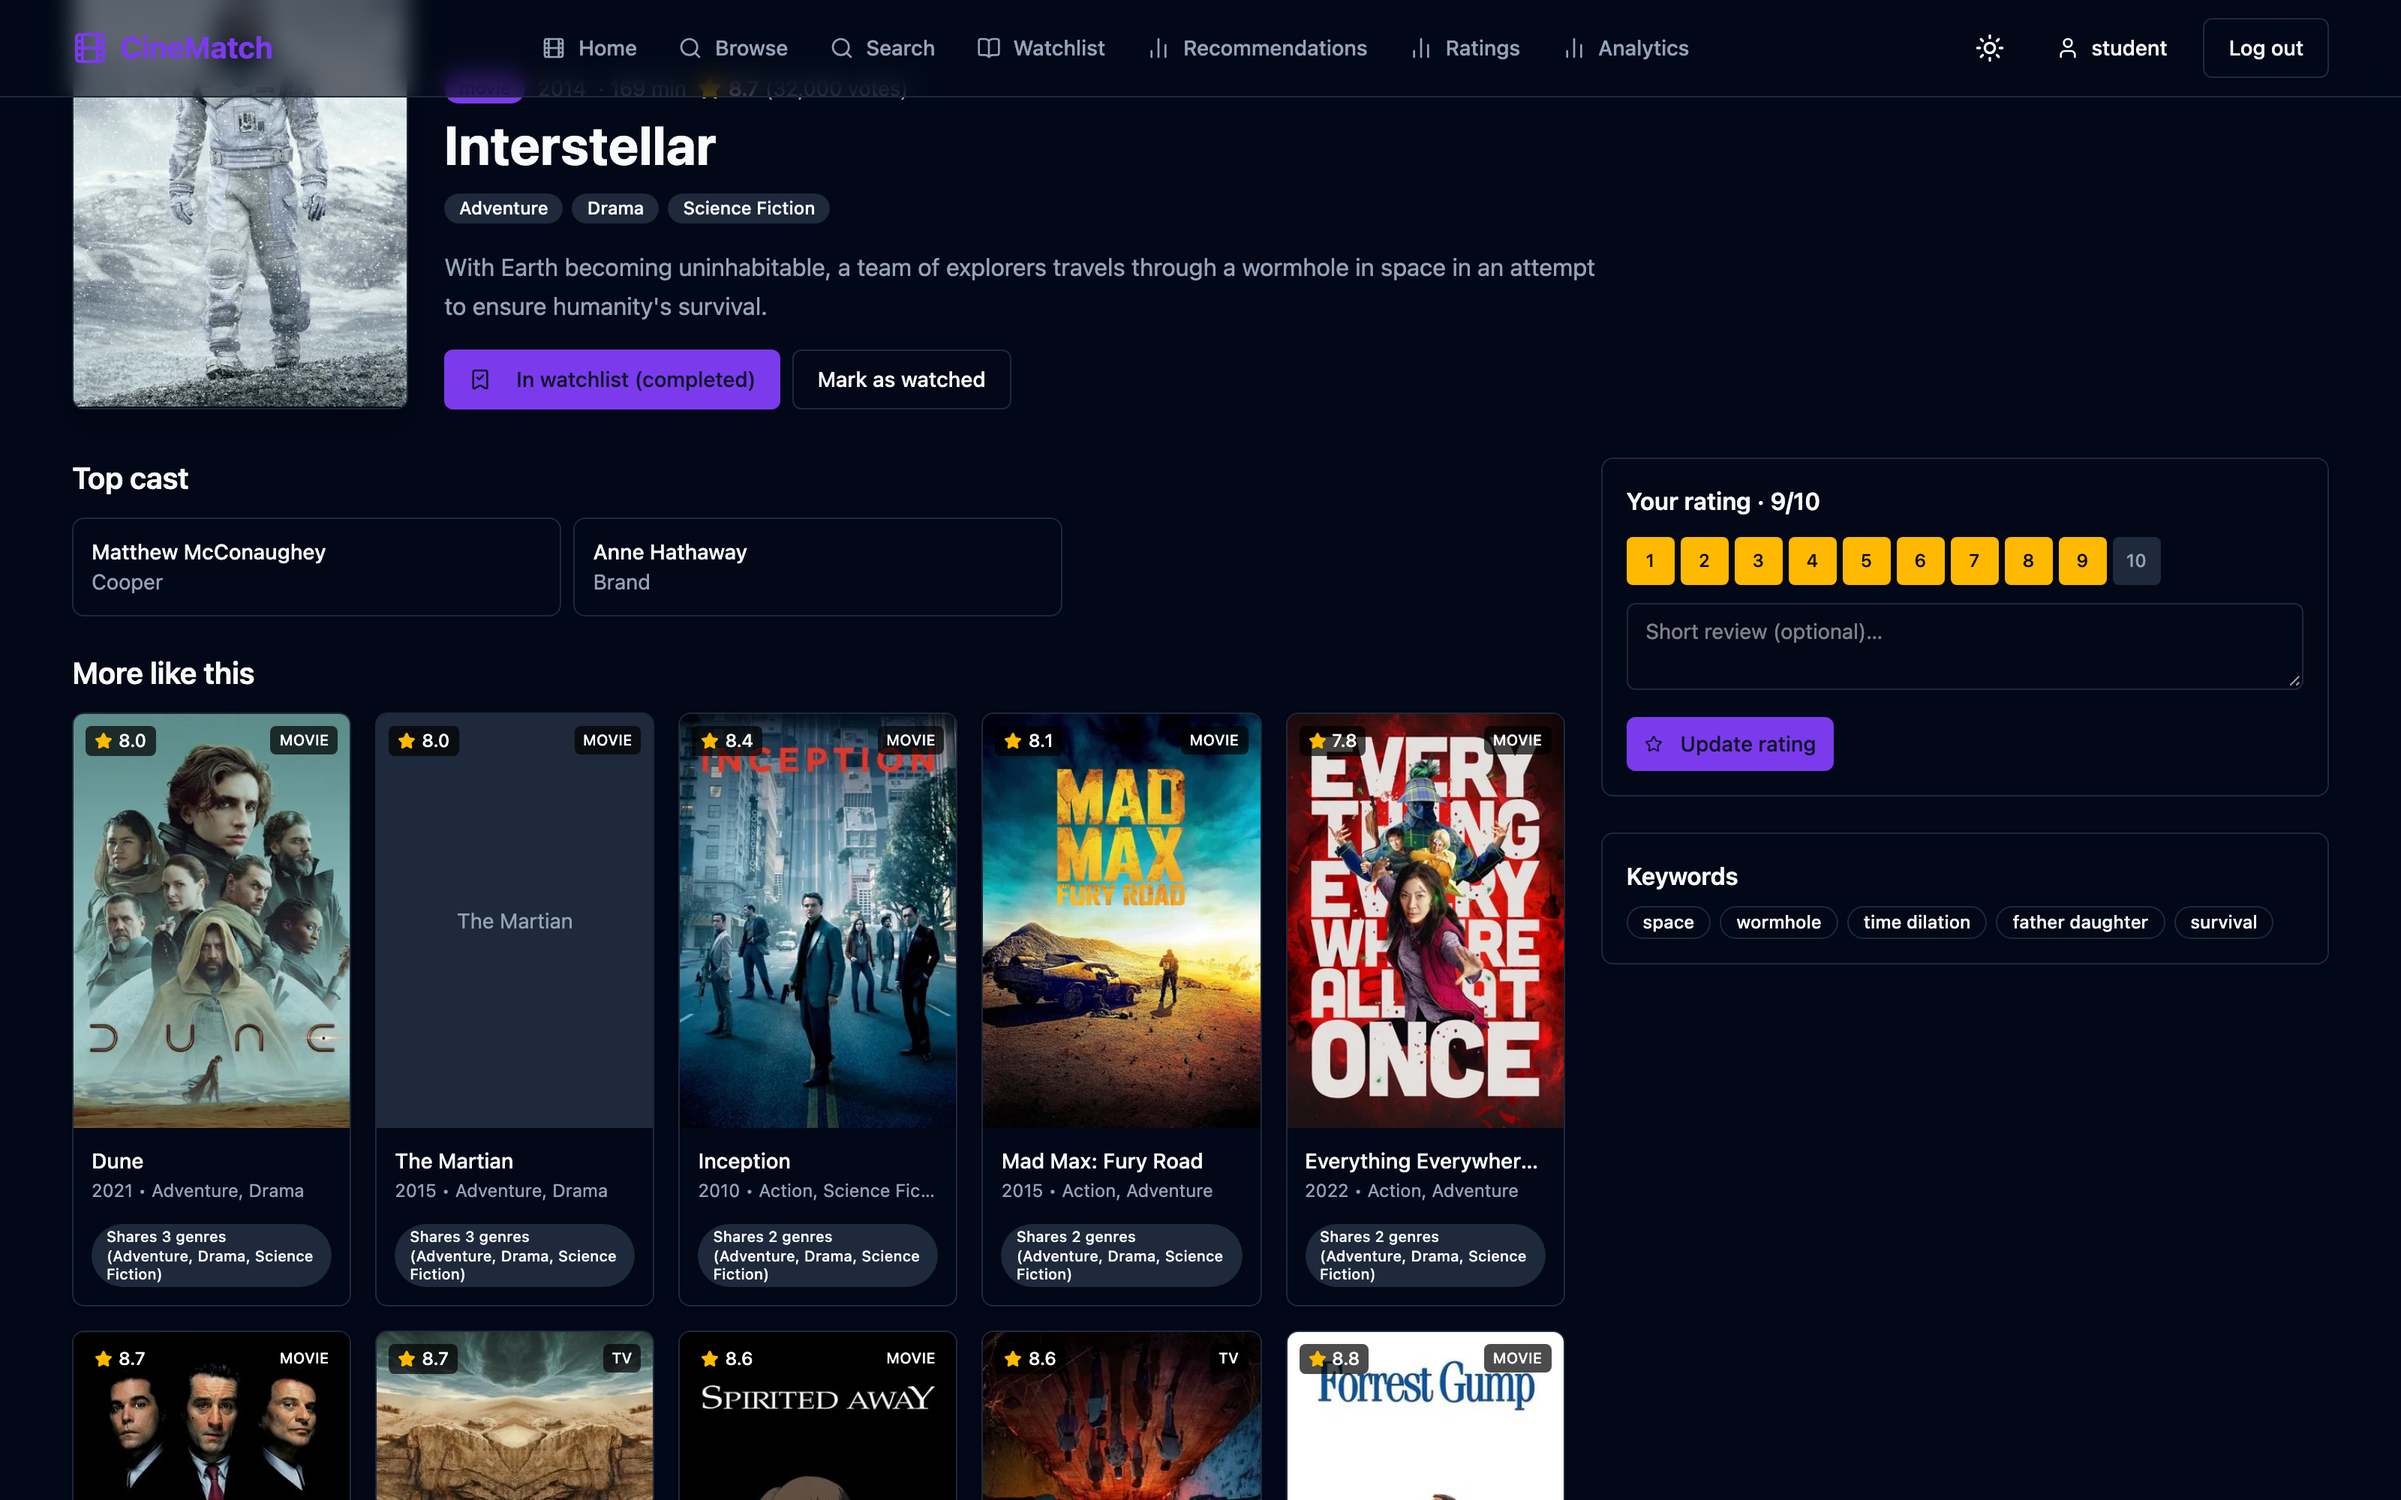
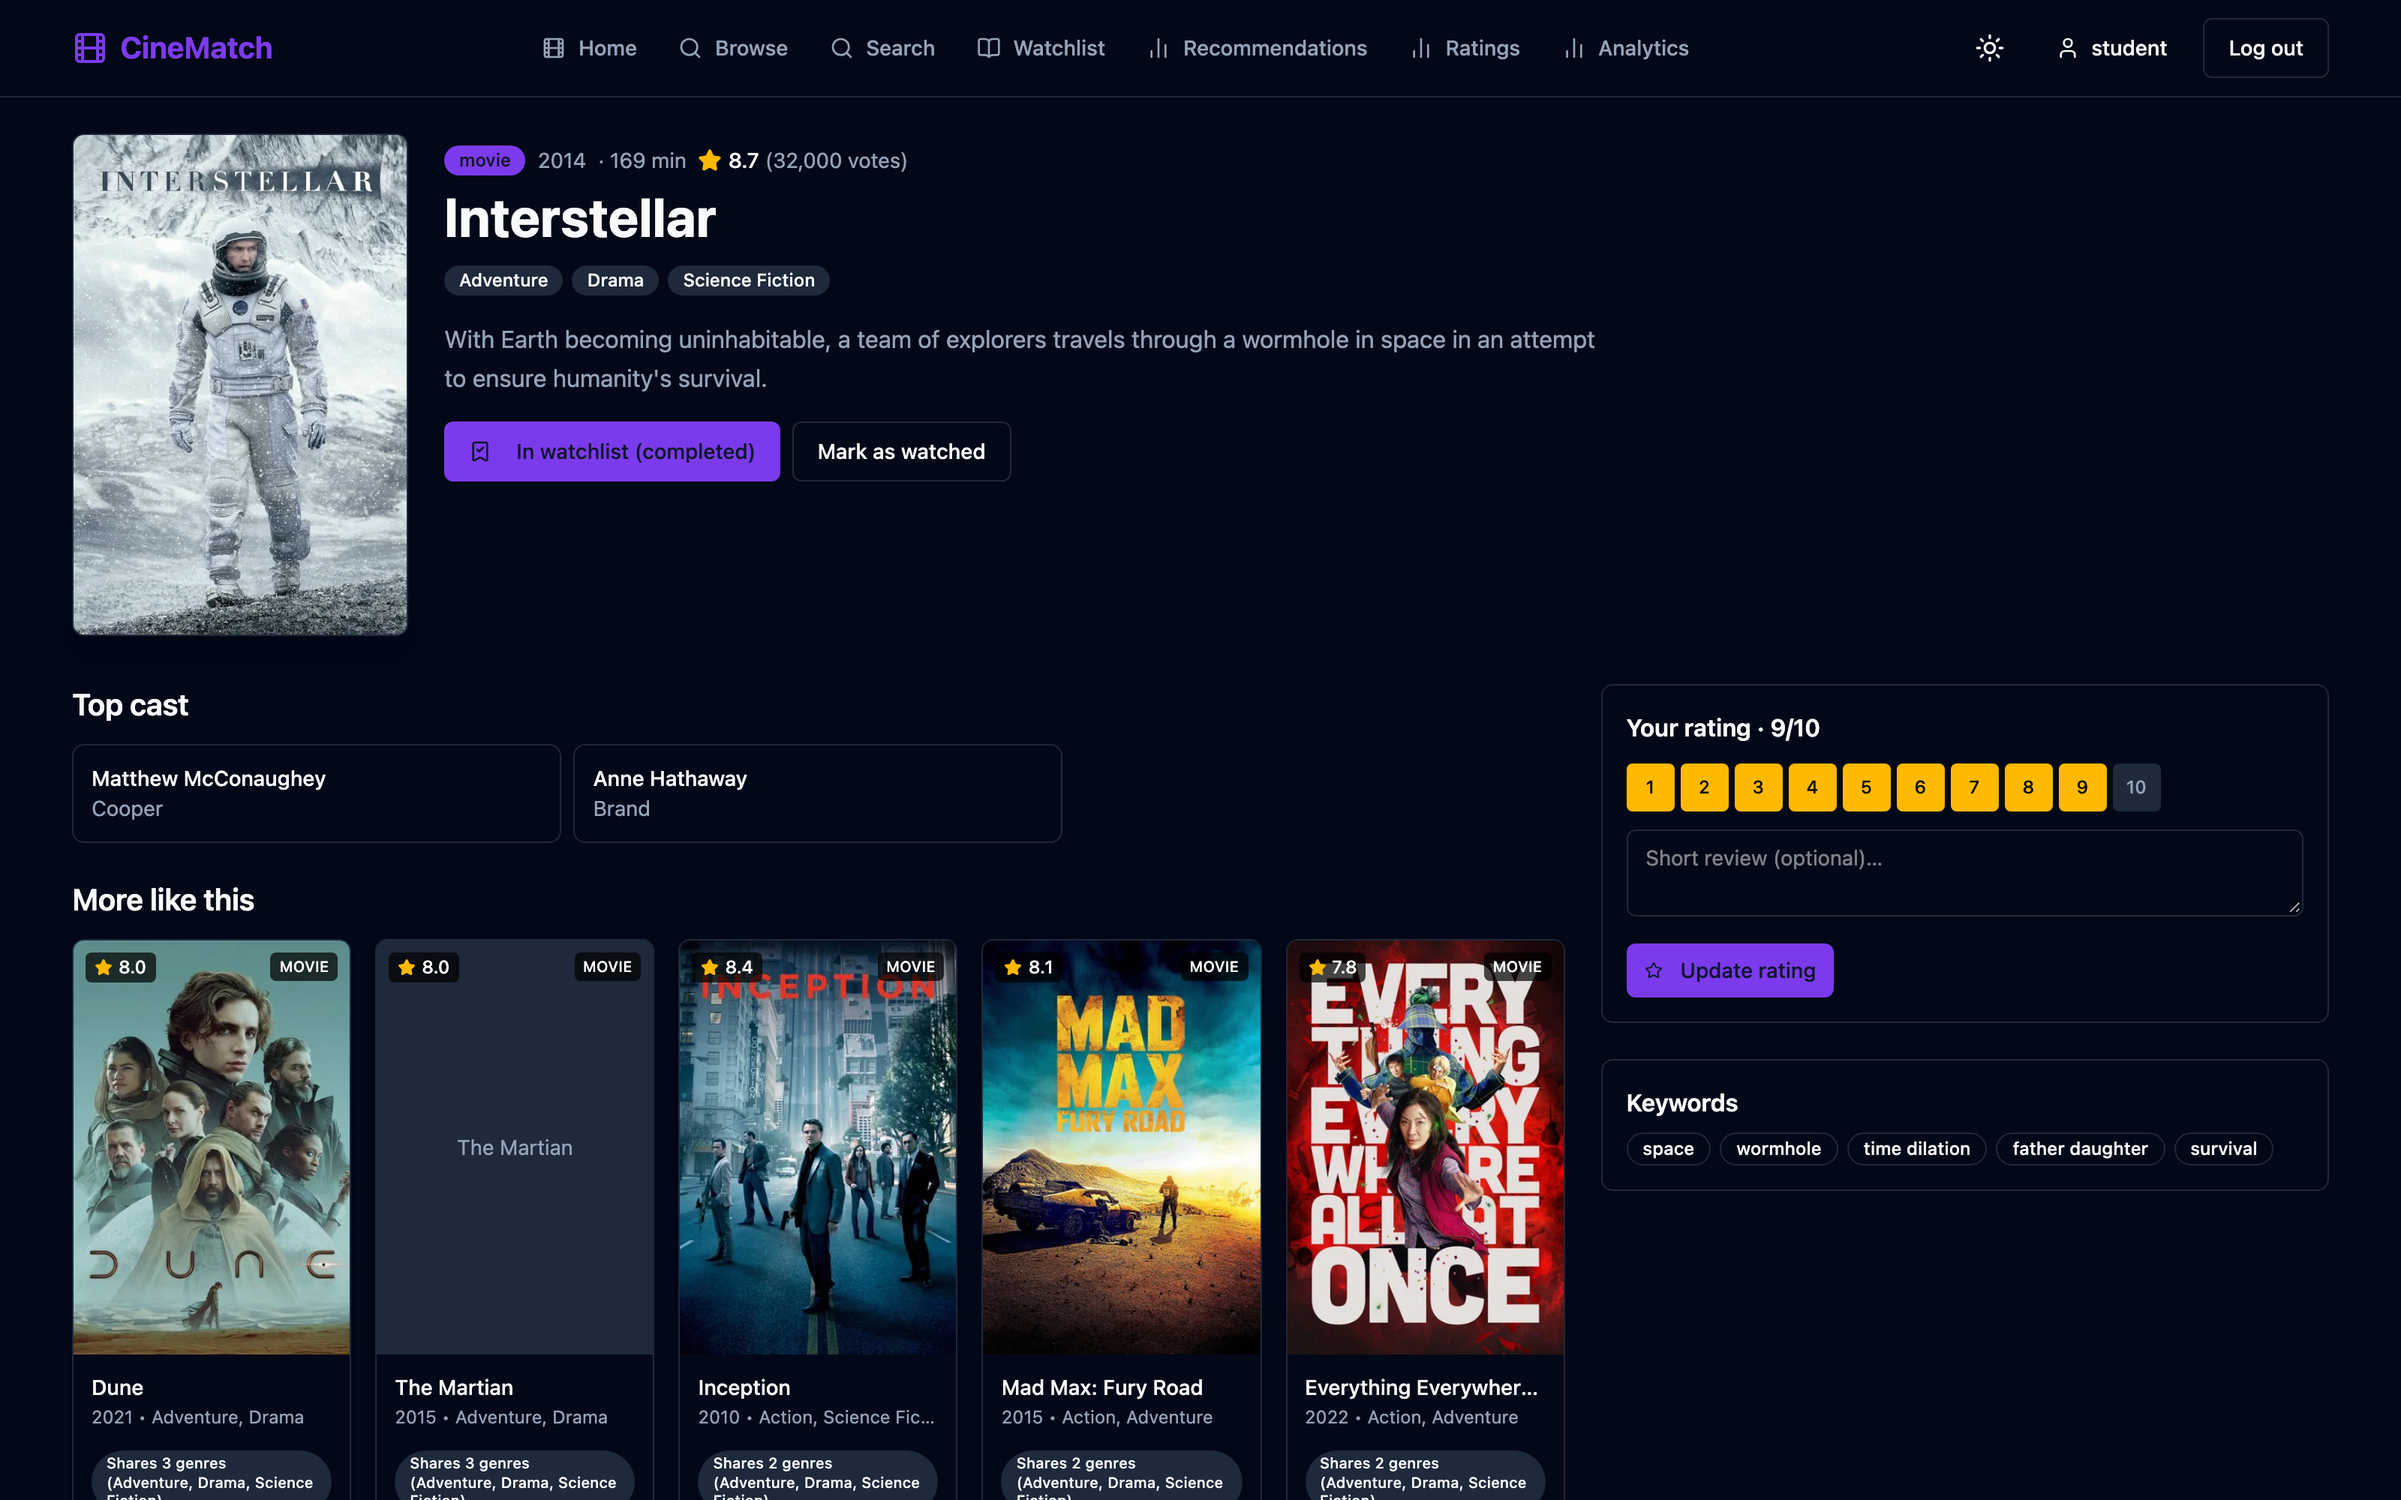
fix: align title detail page when no backdrop is present

diff --git a/frontend/src/features/content/pages/content-detail-page.tsx b/frontend/src/features/content/pages/content-detail-page.tsx
@@ -111,7 +111,7 @@ export function ContentDetailPage() {
         </div>
       )}
       <div className="container mx-auto px-4 pb-12">
-        <div className="-mt-24 flex flex-col gap-6 md:-mt-32 md:flex-row">
+        <div className={`flex flex-col gap-6 md:flex-row ${backdrop ? '-mt-24 md:-mt-32' : 'mt-6'}`}>
           <div className="w-40 shrink-0 overflow-hidden rounded-lg border shadow-lg md:w-56">
             {poster ? (
               <img
@@ -126,7 +126,7 @@ export function ContentDetailPage() {
               </div>
             )}
           </div>
-          <div className="flex-1 pt-2 md:pt-28">
+          <div className={`flex-1 pt-2 ${backdrop ? 'md:pt-28' : ''}`}>
             <div className="flex flex-wrap items-center gap-2 text-sm text-muted-foreground">
               <Badge>{content.type}</Badge>
               <span>{yearOf(content)}</span>
